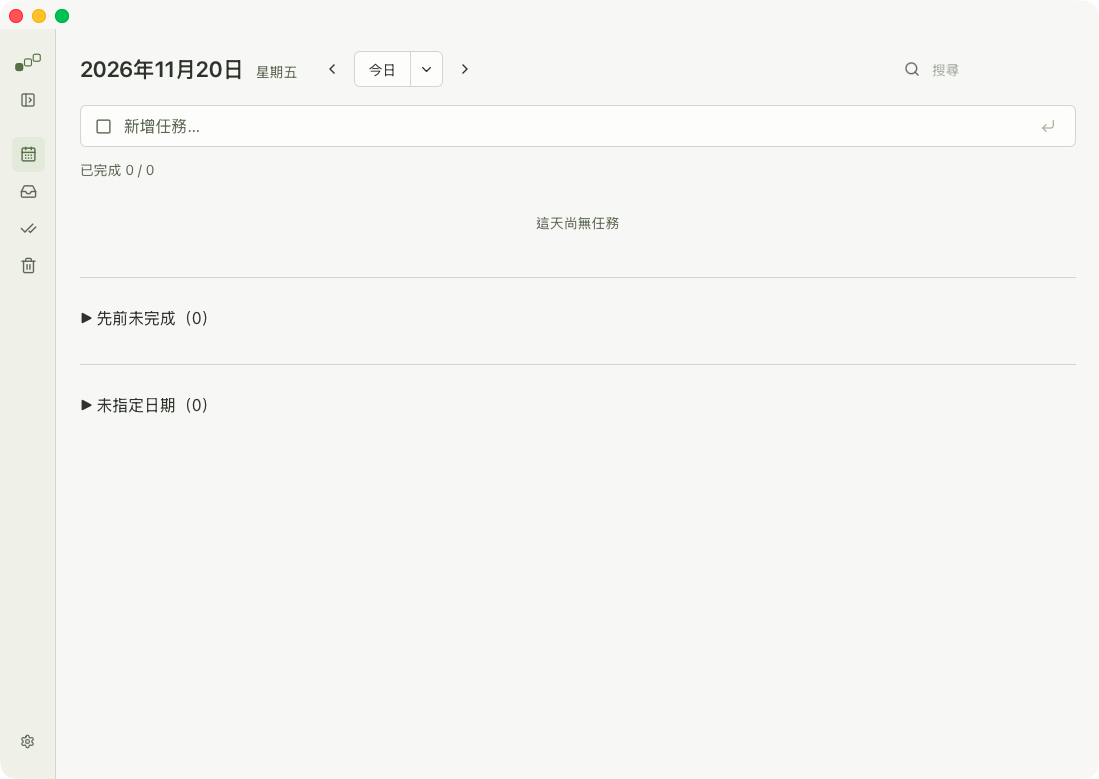
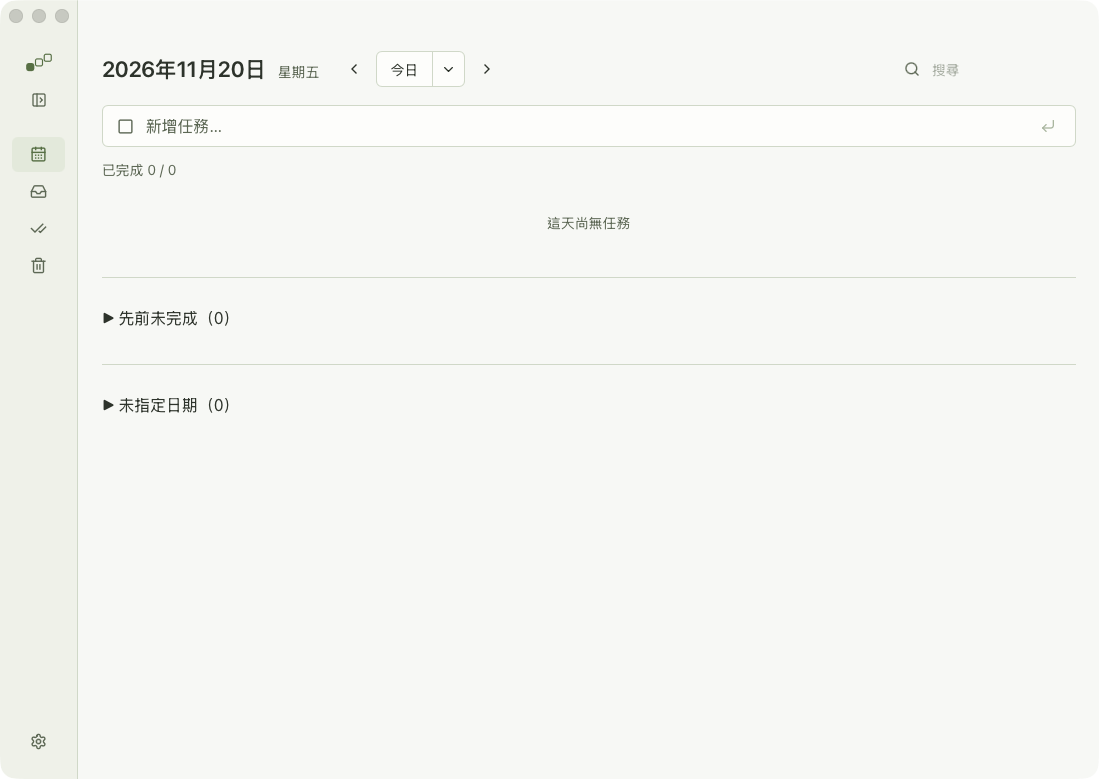
fix: align the collapsed sidebar with macOS controls

diff --git a/web/src/index.css b/web/src/index.css
@@ -235,7 +235,7 @@ select {
   min-height: 100dvh;
 }
 .app-shell.sidebar-collapsed {
-  --sidebar-width: 56px;
+  --sidebar-width: var(--window-controls-width, 56px);
 }
 /* The native main window sets the height for its transparent title bar. */
 .window-titlebar {
@@ -254,10 +254,6 @@ select {
   border-right: 1px solid var(--border);
   background: var(--sidebar);
   pointer-events: none;
-}
-/* Keep the collapsed divider below the native window controls. */
-.sidebar-collapsed .window-titlebar::before {
-  content: none;
 }
 
 .task-list {

diff --git a/internal/desktop/app_darwin.go b/internal/desktop/app_darwin.go
@@ -97,7 +97,8 @@ func Run(cfg Config) error {
 		Width: 1100, Height: 780, MinWidth: 620, MinHeight: 480,
 		BackgroundColour: application.NewRGB(248, 247, 244),
 		Mac:              application.MacWindow{TitleBar: application.MacTitleBarHidden},
-		CSS:              ":root { --window-titlebar-height: 30px; }",
+		// Wails injects CSS as a JavaScript string literal on macOS.
+		CSS: ":root { --window-titlebar-height: 30px; --window-controls-width: 78px; }",
 	})
 	mainWindow.RegisterHook(events.Common.WindowClosing, func(event *application.WindowEvent) {
 		event.Cancel()

diff --git a/README.md b/README.md
@@ -91,7 +91,7 @@ make build
 
 桌面版使用 Wails v3 與系統 WKWebView，直接開啟獨立視窗，不需要另外啟動伺服器或開啟瀏覽器。每日清單、日期、排序、備註和連結沿用相同介面；任務連結交給系統預設瀏覽器開啟。支援 macOS 13.3 以上，提供標準 App／Edit／Window 選單與 ⌘Q、複製貼上等操作；關閉主視窗後仍保留選單列功能，再次啟動已開啟的 App 會聚焦原視窗。
 
-主視窗的側欄與內容背景隨主題延伸到視窗頂端。可拖曳頂端移動視窗，左上角保留 macOS 的視窗控制按鈕。收合側欄時，分隔線從標題列下方開始。
+主視窗的側欄與內容背景隨主題延伸到視窗頂端。可拖曳頂端移動視窗，左上角保留 macOS 的視窗控制按鈕。側欄收合後，寬度會對齊包含兩側留白的視窗按鈕區，分隔線位於按鈕右側。
 
 建置需要前述 Go／Node.js／npm，以及 Xcode Command Line Tools（`xcode-select --install`）。不需要另外安裝 Wails CLI：
 
